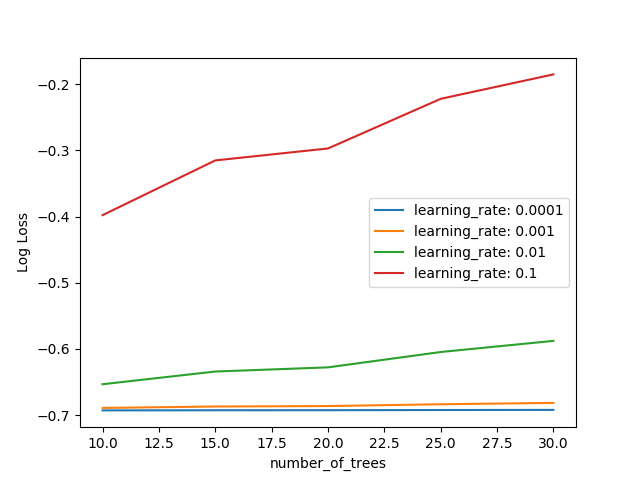
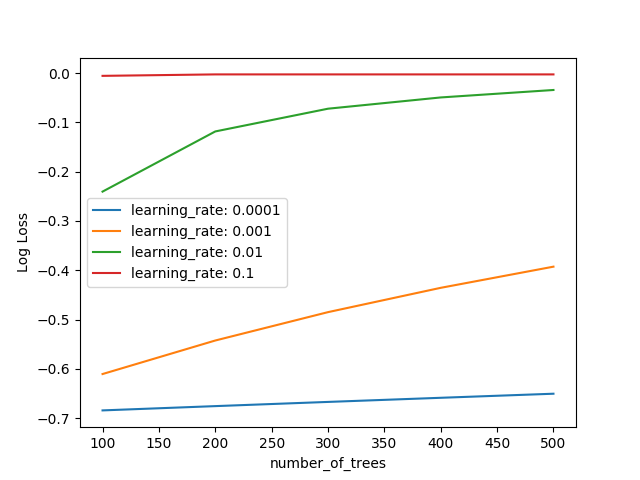
:sparkles: 2000 rows work with 500 trees

diff --git a/part2.py b/part2.py
@@ -12,14 +12,14 @@ import time
 data = read_csv('train.csv')
 dataset = data.values
 
-X = dataset[:5000, 0:94]   # split data into X and y and sampling from total row entries to save time
-y = dataset[:5000, 94]     
+X = dataset[:2000, 0:94]   # split data into X and y and sampling from total row entries to save time
+y = dataset[:2000, 94]     
 
 label_encoded_y = LabelEncoder().fit_transform(y) 
 
 model = XGBClassifier()
-# number_of_trees = [100, 200, 300, 400, 500]
-number_of_trees = [35, 40, 45, 50, 55]
+number_of_trees = [100, 200, 300, 400, 500]
+# number_of_trees = [60, 70, 80, 90, 100]
 max_depth = [1]
 subsample = [1.0]
 colsample_bytree = [0.18]
@@ -28,7 +28,7 @@ gamma = [0]
 objective = ['binary:logistic']
 reg_alpha = [0.2]
 reg_lambda = [0.4]
-num_threads = [8, 7, 6, 5, 4, 3, 2, 1]
+num_threads = [4, 3, 2, 1]
 param_grid = {'reg_lambda': reg_lambda,'reg_alpha': reg_alpha, 'objective': objective, 'gamma': gamma, 'colsample_bytree': colsample_bytree, 'subsample': subsample, 'max_depth': max_depth, 'n_estimators': number_of_trees, 'learning_rate': learning_rate}
 kfold = StratifiedKFold(n_splits = 10, shuffle = True, random_state = 93)
 
